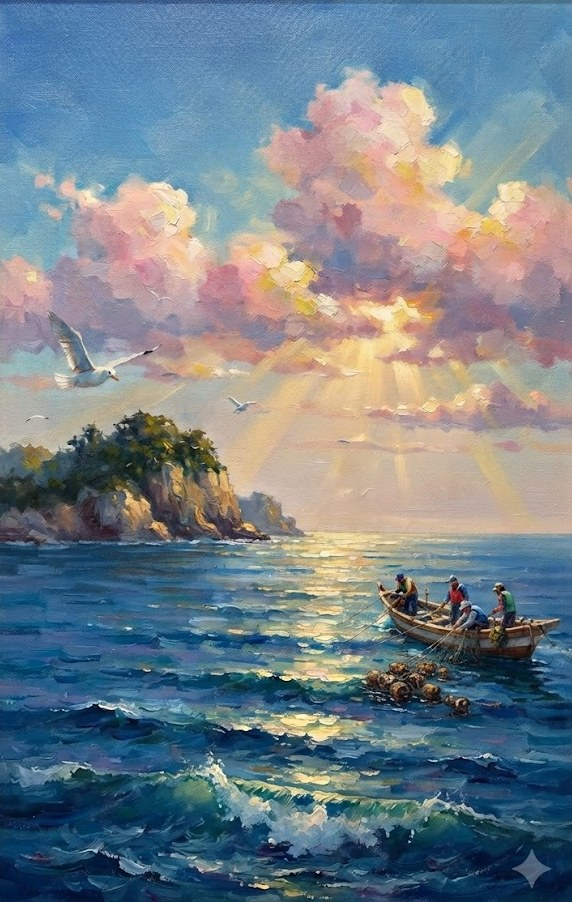
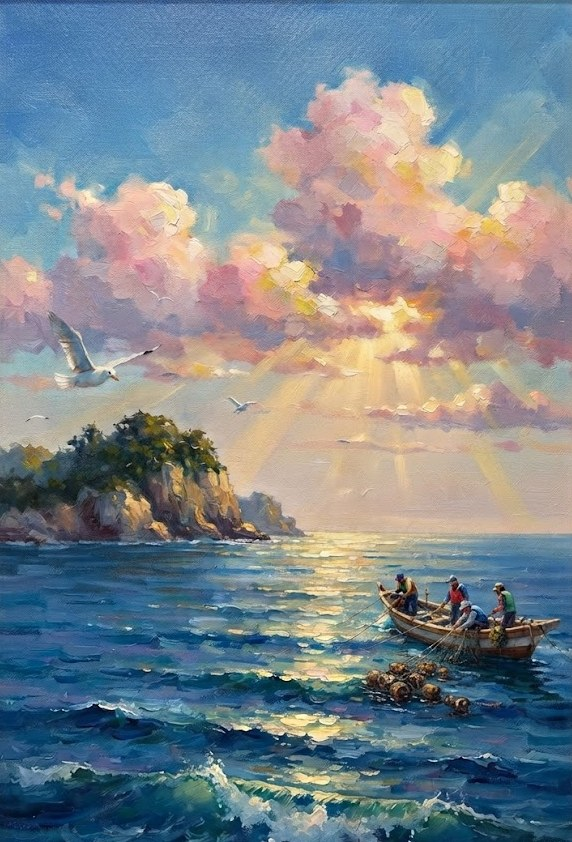
그림 아래쪽을 잘라 로고 제거, 일시·장소 상자 없이 흰 글씨로

diff --git a/index.html b/index.html
@@ -7,7 +7,7 @@
 <meta property="og:type" content="website">
 <meta property="og:title" content="제2회 김덕권 개인전에 초대합니다">
 <meta property="og:description" content="11월 21일(토)~29일(일) 통영시민문화회관 제1전시실">
-<meta property="og:image" content="https://dain75954929-wq.github.io/kim-deokgwon-invitation/preview-10.png">
+<meta property="og:image" content="https://dain75954929-wq.github.io/kim-deokgwon-invitation/preview-11.png">
 <meta property="og:image:width" content="1200">
 <meta property="og:image:height" content="630">
 <meta property="og:url" content="https://dain75954929-wq.github.io/kim-deokgwon-invitation/">
@@ -81,6 +81,7 @@
     position: absolute;
     left: 0; right: 0;
     bottom: 10px;
+    z-index: 1;
     margin: 0;
     transition: opacity .3s;
     color: #FFFFFF;
@@ -120,14 +121,22 @@
     row-gap: 16px;
     text-align: left;
   }
-  .hero .facts {
-    background: rgba(255,255,255,.9);
-    -webkit-backdrop-filter: blur(4px);
-    backdrop-filter: blur(4px);
-    border-radius: 14px;
-    padding: 16px 20px;
-    box-shadow: 0 8px 24px -12px rgba(10,30,60,.5);
+  /* 일시·장소: 상자 없이 그림 위에 흰 글씨. 아래쪽 바다만 은은하게 어둡게 깔아 글자를 띄운다 */
+  .hero::after {
+    content: "";
+    position: absolute;
+    inset: auto 0 0 0;
+    height: 45%;
+    background: linear-gradient(0deg, rgba(8,24,52,.72) 0%, rgba(8,24,52,.45) 55%, rgba(8,24,52,0) 100%);
+    pointer-events: none;
   }
+  .hero .facts {
+    z-index: 1;
+    color: #FFFFFF;
+    text-shadow: 0 1px 3px rgba(5,18,40,.7), 0 2px 12px rgba(5,18,40,.5);
+  }
+  .hero .fact p small { color: rgba(255,255,255,.88); }
+  .hero .pill { background: rgba(255,255,255,.94); color: var(--navy); text-shadow: none; font-weight: 700; }
   .fact { display: contents; }
   /* 표시 높이를 오른쪽 첫 줄 높이(17px × 1.6)와 똑같이 맞춰 가운데가 일치하게 */
   .fact .pill { justify-self: stretch; text-align: center; align-self: start; line-height: calc(17px * 1.6); padding-block: 0; }
